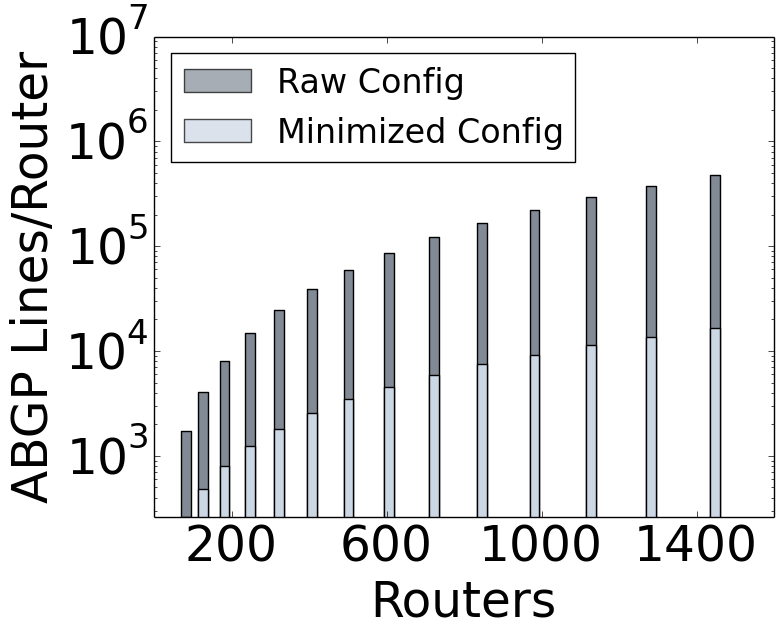
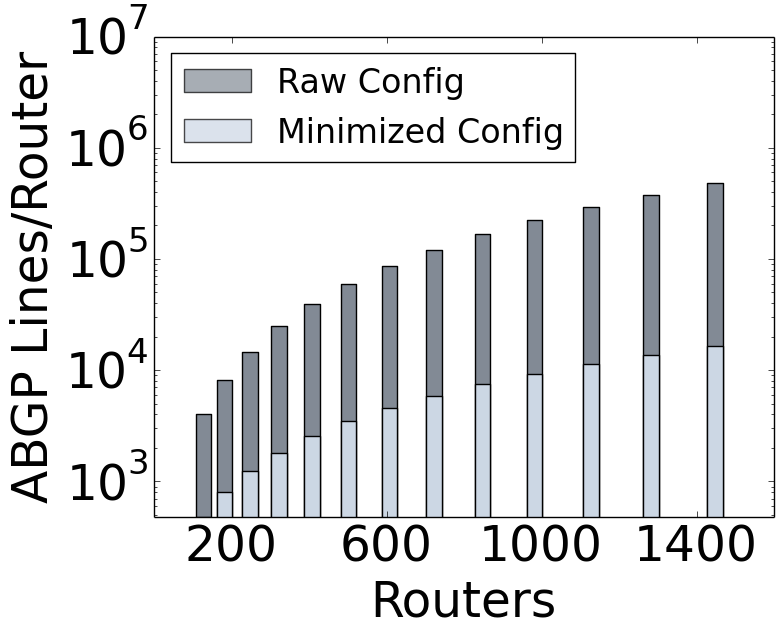
making bar graphs wider

diff --git a/data/datacenter.py b/data/datacenter.py
@@ -102,15 +102,20 @@ fig.savefig('compilation-times-dc.png', bbox_inches='tight')
 #
 #====================================================
 
-num_nodes1 = num_nodes 
+num_nodes1 = num_nodes
 num_nodes2 = map(lambda x: x, num_nodes)
 sizes_raw_per = map(lambda (size,n): size/n, zip(sizes_raw, num_nodes))
 sizes_compressed_per = map(lambda (size,n): size/n, zip(sizes_compressed, num_nodes))
 
+num_nodes1 = num_nodes1[1:]
+num_nodes2 = num_nodes2[1:]
+sizes_raw_per = sizes_raw_per[1:]
+sizes_compressed_per = sizes_compressed_per[1:]
+
 fig = plt.figure()
 ax1 = fig.add_subplot(111)
-ax1.bar(num_nodes1, sizes_raw_per, width=25, color=color1, alpha=1, align='center', log=True) # use log=true
-ax1.bar(num_nodes2, sizes_compressed_per, width=25, color=color3, alpha=1, align='center',log=True)
+ax1.bar(num_nodes1, sizes_raw_per, width=40, color=color1, alpha=1, align='center', log=True) # use log=true
+ax1.bar(num_nodes2, sizes_compressed_per, width=40, color=color3, alpha=1, align='center',log=True)
 ax1.set_xlabel('Routers', fontsize=35)
 ax1.set_ylabel('ABGP Lines/Router', fontsize=35)
 ax1.tick_params(axis='both', which='major', labelsize=35)
@@ -118,7 +123,7 @@ ax1.tick_params(axis='both', which='minor', labelsize=35)
 
 ax1.xaxis.set_ticks([200,600,1000,1400])
 #ax1.set_xlim([0,1400])
-ax1.set_ylim([0,10*10*10*10*10*10*10])
+ax1.set_ylim([-10, 10*10*10*10*10*10*10])
 
 leg_boxes = [p1, p3]
 descrs = ["Raw Config", "Minimized Config"]

diff --git a/data/backbone.py b/data/backbone.py
@@ -107,10 +107,15 @@ num_nodes2 = map(lambda x: x, num_nodes)
 sizes_raw_per = map(lambda (size,n): size/n, zip(sizes_raw, num_nodes))
 sizes_compressed_per = map(lambda (size,n): size/n, zip(sizes_compressed, num_nodes))
 
+num_nodes1 = num_nodes1[2::3]
+num_nodes2 = num_nodes2[2::3]
+sizes_raw_per = sizes_raw_per[2::3]
+sizes_compressed_per = sizes_compressed_per[2::3]
+
 fig = plt.figure()
 ax1 = fig.add_subplot(111)
-ax1.bar(num_nodes1, sizes_raw_per, width=3.2, color=color1, alpha=1, align='center', log=True)
-ax1.bar(num_nodes2, sizes_compressed_per, width=3.2, color=color3, alpha=1, align='center',log=True)
+ax1.bar(num_nodes1, sizes_raw_per, width=5.2, color=color1, alpha=1, align='center', log=True)
+ax1.bar(num_nodes2, sizes_compressed_per, width=5.2, color=color3, alpha=1, align='center',log=True)
 ax1.set_xlabel('Routers', fontsize=35)
 ax1.set_ylabel('ABGP Lines/Router', fontsize=35)
 ax1.tick_params(axis='both', which='major', labelsize=35)
